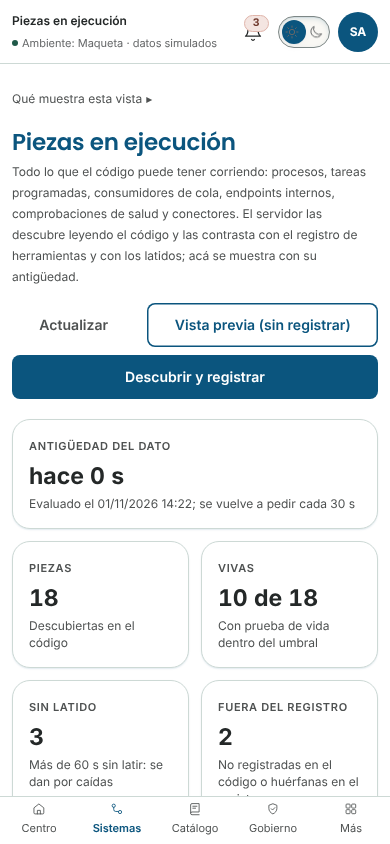
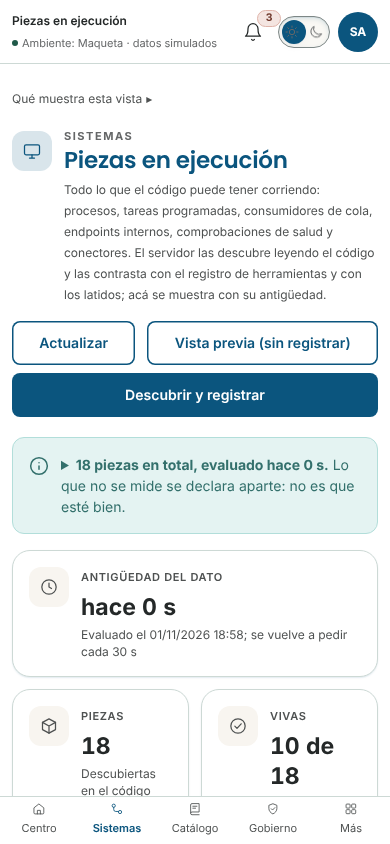
fix(portal): piezas en ejecución — páginas de 10, aviso antes de las cifras con icono y «Actualizar» con borde (revisión visual 1)
- TAMANO_DE_PAGINA pasa de 25 a 10 (la API pagina; las pruebas siguen comprobando el
  pageSize que se manda, ahora 10).

Claude-Session: https://claude.ai/code/session_015srVoda962hL6gd5RrH9vw

diff --git a/src/app/features/admin/portal/probes/runtime-pieces/runtime-pieces-page.html b/src/app/features/admin/portal/probes/runtime-pieces/runtime-pieces-page.html
@@ -6,7 +6,7 @@
   <button
     app-button
     page-actions
-    variant="ghost"
+    variant="secondary"
     size="sm"
     (clicked)="cargar()"
     data-testid="rp-refresh"
@@ -48,31 +48,6 @@
       @if (v.status === 'ready' || v.status === 'stale') {
         @let r = v.data;
         <div class="piezas__cuerpo">
-          <!-- Cifras: cuántas hay, cuántas viven, cuáles preocupan y la antigüedad del dato (S7). -->
-          <section class="piezas__metricas" aria-label="Resumen de las piezas">
-            <app-metric-card
-              label="Antigüedad del dato"
-              [value]="antiguedadDe(r.evaluatedAt)"
-              [hint]="'Evaluado el ' + (r.evaluatedAt | date: 'dd/MM/yyyy HH:mm') + '; se vuelve a pedir cada 30 s'"
-            />
-            <app-metric-card label="Piezas" [value]="r.summary.total" hint="Descubiertas en el código" />
-            <app-metric-card
-              label="Vivas"
-              [value]="r.summary.byState.VIVA + ' de ' + r.summary.total"
-              hint="Con prueba de vida dentro del umbral"
-            />
-            <app-metric-card
-              label="Sin latido"
-              [value]="r.summary.byState.SIN_LATIDO"
-              [hint]="'Más de ' + r.thresholds.downAfterSeconds + ' s sin latir: se dan por caídas'"
-            />
-            <app-metric-card
-              label="Fuera del registro"
-              [value]="r.summary.byState.NO_REGISTRADA + r.summary.byState.HUERFANA"
-              hint="No registradas en el código o huérfanas en el registro"
-            />
-          </section>
-
           <!-- Aviso de honestidad en una línea; el detalle se despliega. -->
           <app-alert tone="info" data-testid="rp-honesty">
             <details class="piezas__aviso">
@@ -114,6 +89,35 @@
               </div>
             </details>
           </app-alert>
+
+          <!-- Cifras: cuántas hay, cuántas viven, cuáles preocupan y la antigüedad del dato (S7). -->
+          <section class="piezas__metricas" aria-label="Resumen de las piezas">
+            <app-metric-card
+              label="Antigüedad del dato"
+              icon="clock"
+              [value]="antiguedadDe(r.evaluatedAt)"
+              [hint]="'Evaluado el ' + (r.evaluatedAt | date: 'dd/MM/yyyy HH:mm') + '; se vuelve a pedir cada 30 s'"
+            />
+            <app-metric-card label="Piezas" icon="cube" [value]="r.summary.total" hint="Descubiertas en el código" />
+            <app-metric-card
+              label="Vivas"
+              icon="check-circle"
+              [value]="r.summary.byState.VIVA + ' de ' + r.summary.total"
+              hint="Con prueba de vida dentro del umbral"
+            />
+            <app-metric-card
+              label="Sin latido"
+              icon="heart"
+              [value]="r.summary.byState.SIN_LATIDO"
+              [hint]="'Más de ' + r.thresholds.downAfterSeconds + ' s sin latir: se dan por caídas'"
+            />
+            <app-metric-card
+              label="Fuera del registro"
+              icon="flag"
+              [value]="r.summary.byState.NO_REGISTRADA + r.summary.byState.HUERFANA"
+              hint="No registradas en el código o huérfanas en el registro"
+            />
+          </section>
 
           @if (!r.scan.available) {
             <app-alert

diff --git a/src/app/features/admin/portal/probes/runtime-pieces/runtime-pieces-labels.spec.ts b/src/app/features/admin/portal/probes/runtime-pieces/runtime-pieces-labels.spec.ts
@@ -116,7 +116,7 @@ describe('etiquetas de las piezas en ejecución (funciones puras)', () => {
 
 describe('la consulta que sale de la URL', () => {
   it('por omisión pide la primera página, sin filtros', () => {
-    expect(consultaDe(valores())).toEqual({ page: 1, pageSize: 25 });
+    expect(consultaDe(valores())).toEqual({ page: 1, pageSize: 10 });
   });
 
   it('manda lo válido y descarta lo que la API rechazaría con 400', () => {
@@ -132,7 +132,7 @@ describe('la consulta que sale de la URL', () => {
     );
     expect(q).toEqual({
       page: 3,
-      pageSize: 25,
+      pageSize: 10,
       state: 'SIN_LATIDO',
       host: 'worker-a',
       q: 'outbox',
@@ -145,7 +145,7 @@ describe('la consulta que sale de la URL', () => {
     const q = consultaDe(
       valores({ q: 'x'.repeat(101), host: 'y'.repeat(101), withFindings: 'si' }),
     );
-    expect(q).toEqual({ page: 1, pageSize: 25 });
+    expect(q).toEqual({ page: 1, pageSize: 10 });
   });
 
   it.each([

diff --git a/src/app/features/admin/portal/probes/runtime-pieces/runtime-pieces-labels.ts b/src/app/features/admin/portal/probes/runtime-pieces/runtime-pieces-labels.ts
@@ -160,7 +160,7 @@ export type ValoresUrl = Readonly<Record<(typeof CLAVES_URL)[number], string>>;
 /** Los filtros que «Quitar filtros» limpia; la pestaña y la página no son filtros. */
 export const CLAVES_DE_FILTRO = ['state', 'kind', 'host', 'q', 'withFindings'] as const;
 
-export const TAMANO_DE_PAGINA = 25;
+export const TAMANO_DE_PAGINA = 10;
 const MAXIMO_DE_TEXTO = 100;
 
 export function pestanaDe(valores: Pick<ValoresUrl, 'vista'>): Pestana {

diff --git a/src/app/features/admin/portal/probes/runtime-pieces/runtime-pieces-page.spec.ts b/src/app/features/admin/portal/probes/runtime-pieces/runtime-pieces-page.spec.ts
@@ -227,7 +227,7 @@ describe('RuntimePiecesPage', () => {
     const req = lista();
     expect(req.request.method).toBe('GET');
     expect(req.request.params.keys().sort()).toEqual(['page', 'pageSize']);
-    expect(req.request.params.get('pageSize')).toBe('25');
+    expect(req.request.params.get('pageSize')).toBe('10');
     req.flush(respuesta());
   });
 
